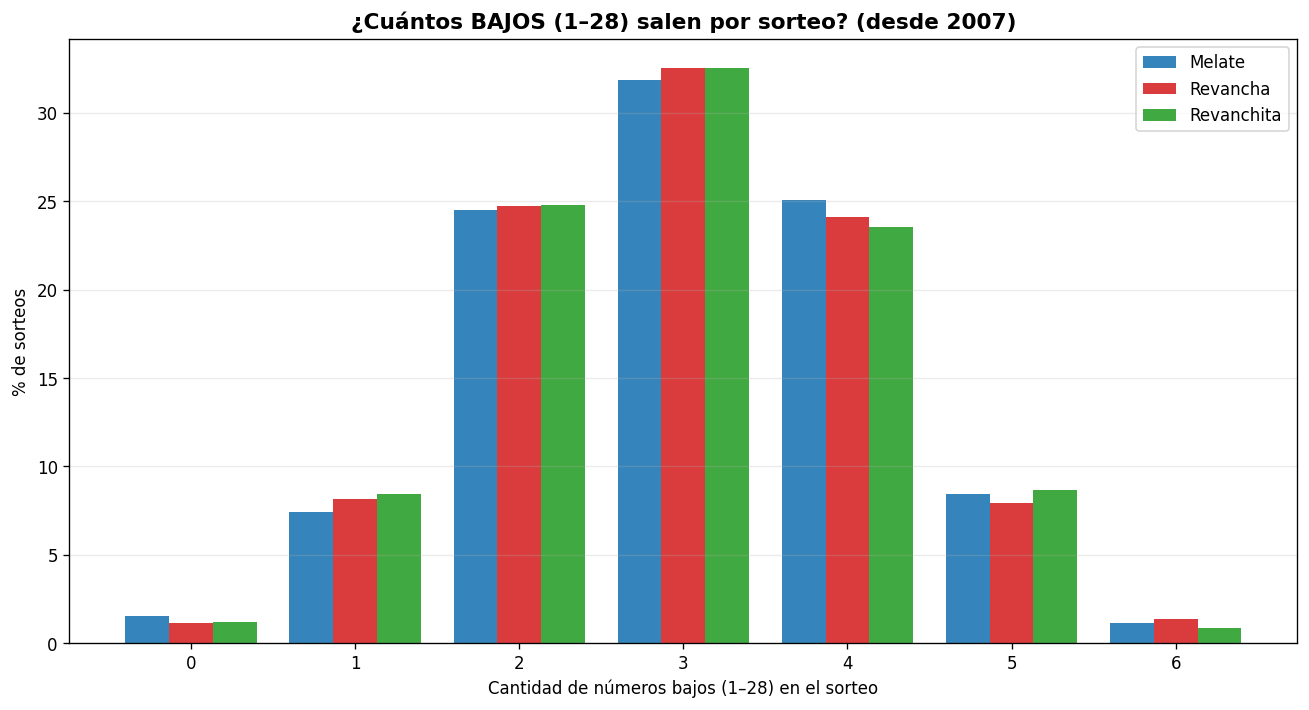
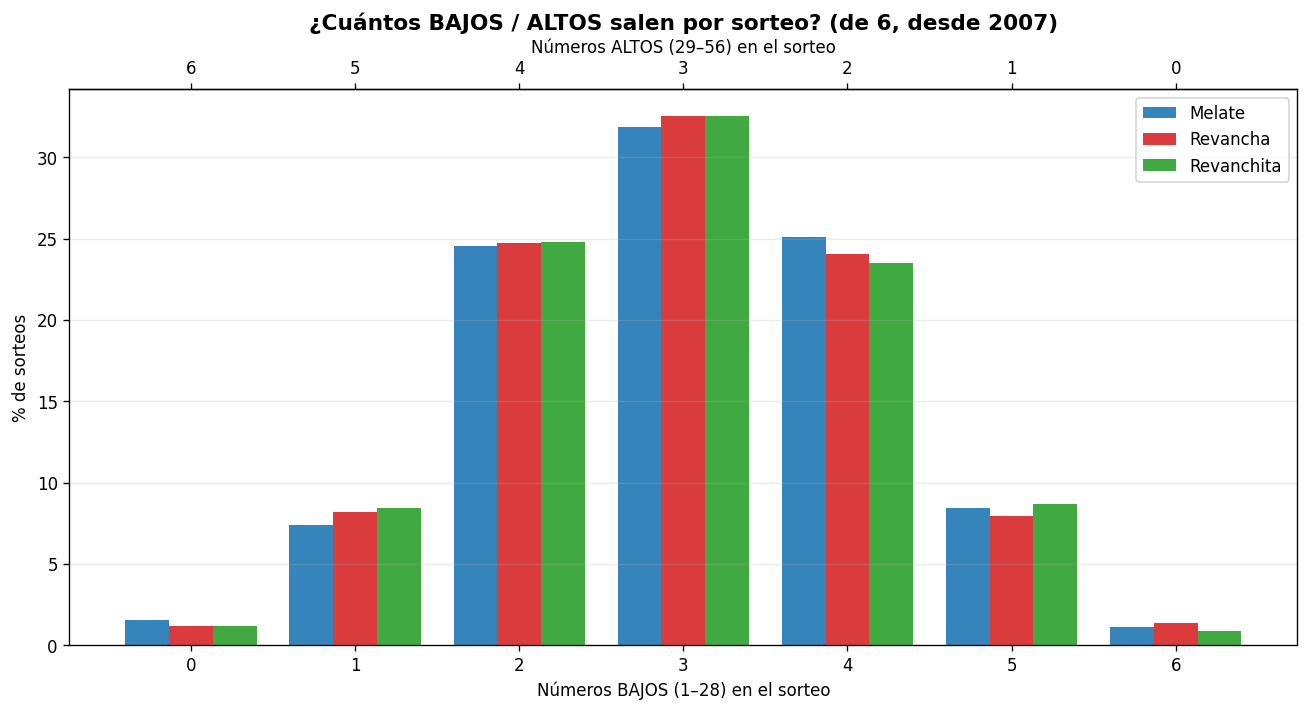
Añade eje X superior con el complemento (altos/impares) en los gráficos de composición
En pares_impares.png y bajos_altos.png, el eje superior etiqueta cada barra
con su complemento (6 − k), dejando explícito que "3 bajos" = "3 altos",
"2 pares" = "4 impares", etc., sin duplicar el gráfico.

diff --git a/analisis_melate.py b/analisis_melate.py
@@ -368,7 +368,9 @@ def _g_sumas(plt, datos, desde, ruta) -> None:
 
 
 def _g_composicion(plt, datos, desde, modo, ruta) -> None:
-    """Barras agrupadas: cuántas veces (en %) salieron k pares (o k bajos) por sorteo."""
+    """Barras agrupadas: cuántas veces (en %) salieron k pares (o k bajos) por sorteo.
+    El eje X superior muestra el complemento (impares / altos = 6 − k), que es la
+    misma información reflejada: por eso no hace falta un gráfico aparte para él."""
     cats = list(range(K_SORTEO + 1))           # 0..6
     juegos = list(datos.keys())
     ancho = 0.8 / len(juegos)
@@ -383,16 +385,23 @@ def _g_composicion(plt, datos, desde, modo, ruta) -> None:
         x = [c + (i - (len(juegos) - 1) / 2) * ancho for c in cats]
         ax.bar(x, pct, width=ancho, color=COLORES_JUEGO.get(nombre), label=nombre, alpha=0.9)
     if modo == "pares":
-        ax.set_title(f"¿Cuántos PARES salen por sorteo? (de {K_SORTEO} números, desde {desde[:4]})",
+        ax.set_title(f"¿Cuántos PARES / IMPARES salen por sorteo? (de {K_SORTEO}, desde {desde[:4]})",
                      fontsize=13, fontweight="bold")
-        ax.set_xlabel("Cantidad de números pares en el sorteo")
+        ax.set_xlabel("Números PARES en el sorteo")
+        compl_label = "Números IMPARES en el sorteo"
     else:
-        ax.set_title(f"¿Cuántos BAJOS (1–{N_BOMBO // 2}) salen por sorteo? (desde {desde[:4]})",
+        ax.set_title(f"¿Cuántos BAJOS / ALTOS salen por sorteo? (de {K_SORTEO}, desde {desde[:4]})",
                      fontsize=13, fontweight="bold")
-        ax.set_xlabel(f"Cantidad de números bajos (1–{N_BOMBO // 2}) en el sorteo")
+        ax.set_xlabel(f"Números BAJOS (1–{N_BOMBO // 2}) en el sorteo")
+        compl_label = f"Números ALTOS ({N_BOMBO // 2 + 1}–{N_BOMBO}) en el sorteo"
     ax.set_ylabel("% de sorteos")
     ax.set_xticks(cats)
-    ax.legend()
+    # Eje X superior: el complemento (6 − k), p. ej. "0 bajos" = "6 altos".
+    secax = ax.secondary_xaxis("top")
+    secax.set_xticks(cats)
+    secax.set_xticklabels([str(K_SORTEO - k) for k in cats])
+    secax.set_xlabel(compl_label)
+    ax.legend(loc="upper right")
     ax.grid(alpha=0.25, axis="y")
     fig.tight_layout()
     fig.savefig(ruta, dpi=120, bbox_inches="tight")
